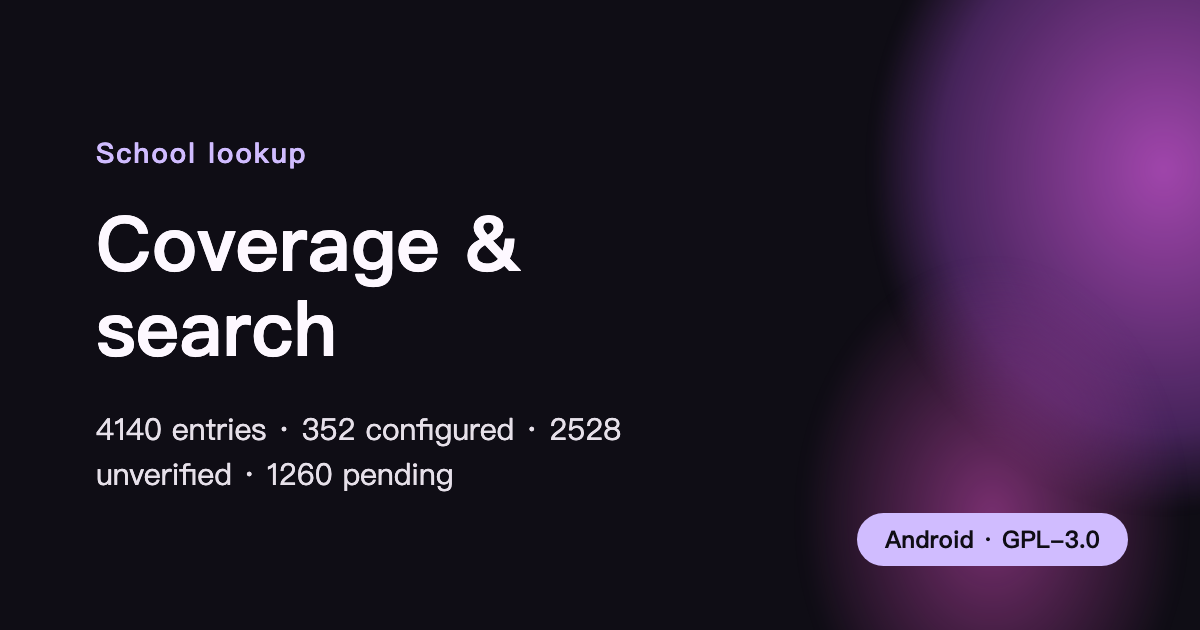
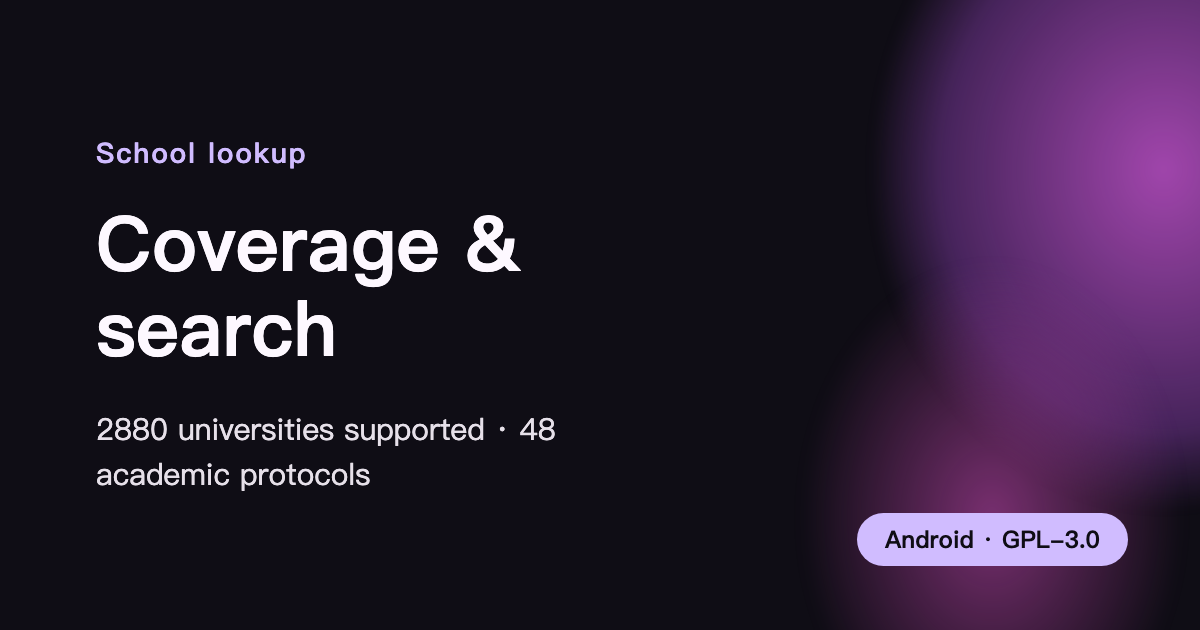
fix(copy): 首页关键指标与元数据明确标为「所学校直连」 (#45)
根因:
首页首屏 Ribbon 佐证条原为「2880 条目录记录」，用词抽象生硬且缺少业务主语「学校」，
易引发用户对条目含义的严重困惑（误认为代码行数或无意义数据记录）。

改动:
1. 首页 Ribbon 字段由「条目录记录」改为「所学校直连」，英文对齐为「schools supported」。
2. meta description 由「条学校目录记录」改为「收录 N 所学校教务直连」。
3. 同步重绘 OG 社交分享图片，文案一致改为「所学校直连」。

verify: npx tsc --noEmit 0 错误; npm run build 生成 9 静态页; npm test 31 文件 481 测试全绿

Changed region(s): [[0.0617, 0.6635, 0.5242, 0.7841]]

diff --git a/src/i18n/zh.ts b/src/i18n/zh.ts
@@ -7,7 +7,7 @@ export const zh = {
     title: 'Sleepy — 开源课表,构建无壳,自由自在',
     // 计数派生闸(§15):条数不当校数说(§4.1),现值由页面层传入
     description: (rows: number) =>
-      `${rows} 条学校目录记录,逐条标明接入状态。本地优先、源码公开的 Android 课表。`,
+      `收录 ${rows} 所学校教务直连。本地优先、源码公开的 Android 课表。`,
   },
   hero: {
     slogan: '构建无壳,自由自在',
@@ -16,7 +16,7 @@ export const zh = {
     ctaTrial: '在线体验',
     deviceCaption: '周视图应用截图',
     // ribbon = 不对称佐证条:派生大数字领头 + 单位短语,两事实跟随
-    ribbon: { schools: '条目录记录', license: 'GPL-3.0 开源', privacy: '数据留存本机' },
+    ribbon: { schools: '所学校直连', license: 'GPL-3.0 开源', privacy: '数据留存本机' },
   },
   views: {
     heading: '三视图,各得其所',

diff --git a/src/i18n/en.ts b/src/i18n/en.ts
@@ -8,7 +8,7 @@ export const en: SiteCopy = {
   meta: {
     title: 'Sleepy — open-source timetable, built free',
     description: (rows: number) =>
-      `${rows} school catalog entries with individual import status. A local-first, open-source Android timetable.`,
+      `${rows} universities and schools supported for direct timetable import. A local-first, open-source Android timetable.`,
   },
   hero: {
     slogan: 'Built open. Feels free.',
@@ -16,7 +16,7 @@ export const en: SiteCopy = {
     ctaDownload: 'Download for Android',
     ctaTrial: 'Try it online',
     deviceCaption: 'Week view app screenshot',
-    ribbon: { schools: 'catalog entries', license: 'GPL-3.0 open source', privacy: 'Data stays on device' },
+    ribbon: { schools: 'schools supported', license: 'GPL-3.0 open source', privacy: 'Data stays on device' },
   },
   views: {
     heading: 'Three views, each in its place',
